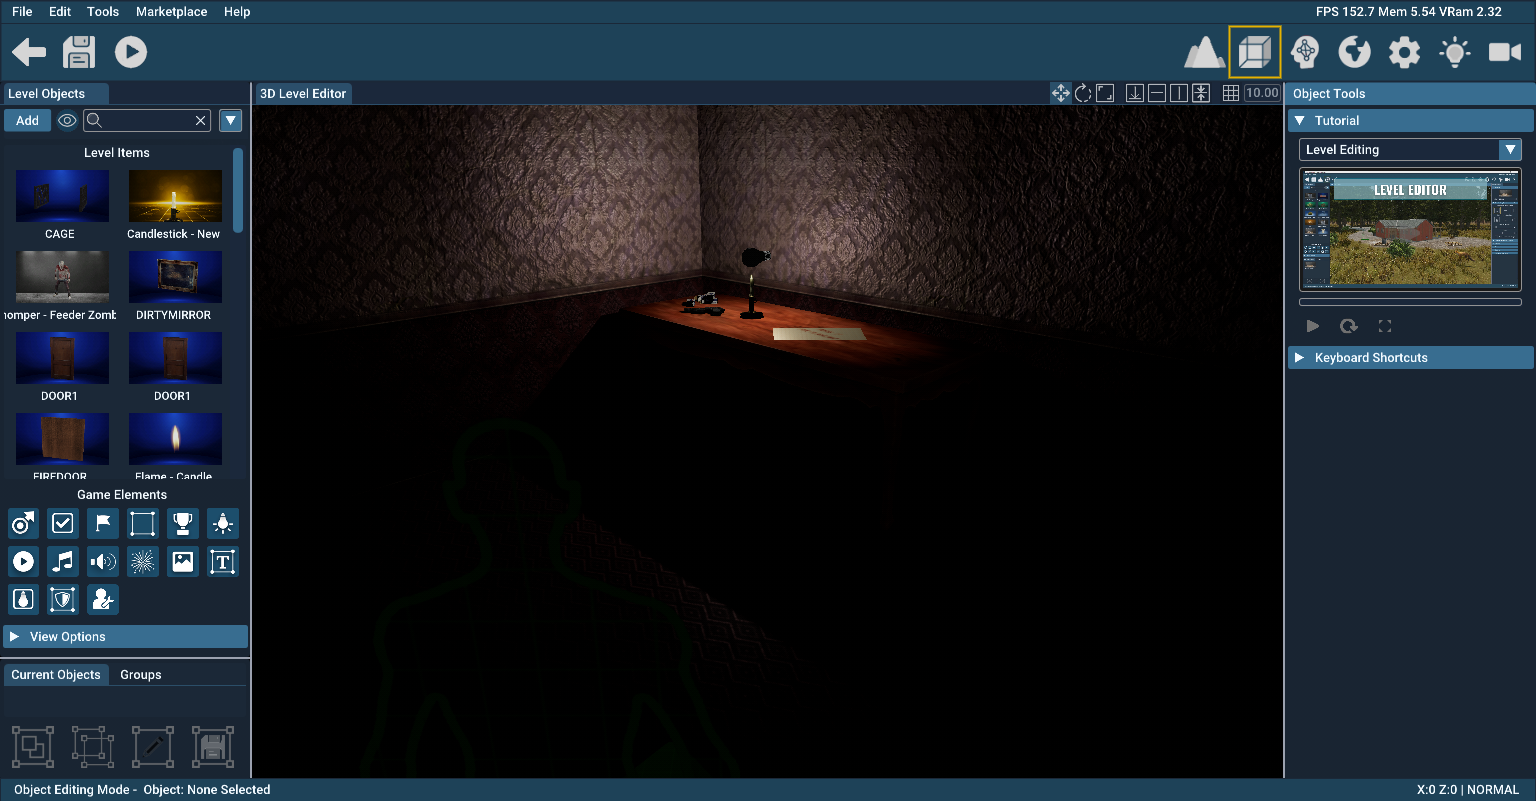
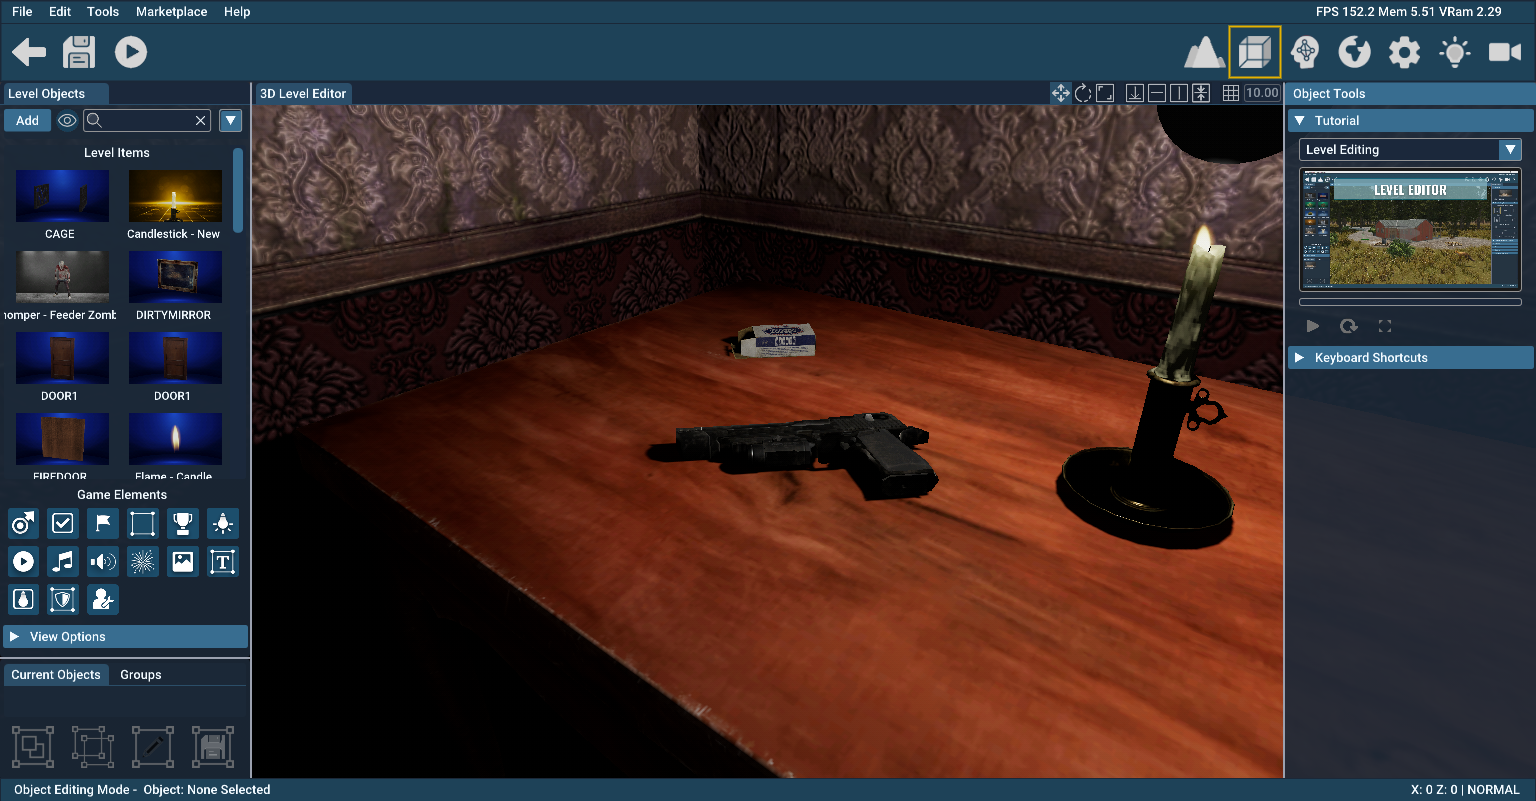
2.35: FIX deleted/collected object leaves its shadow behind (game side, no engine change)
Root cause: local point/spot shadow maps are CACHED, and the change detector
(GGMAX 2.07d, wiRenderer.cpp:5117) only finds a caster that MOVED, by comparing
its world matrix against last frame's. Neither of its two guards can fire for a
REMOVED object: a deleted one is gone from the objects array so there is no
'now' matrix left to compare, and a hidden one is skipped by the first guard.
'changed' stays false and the atlas keeps the removed object's depth forever.

The engine already exported the nudge - wi::renderer::InvalidateLocalShadows(),
wiRenderer.h:1200, consumed by 'changed = localShadowInvalidate || ...' - but it
had NO caller anywhere in the game. Nothing ever refreshed the cache on a
content change. Fix is therefore purely game side; the engine is untouched.

Wired at three sites via a one-line GGInvalidateLocalShadows() wrapper:
 - M-Entity_part4.cpp entity_deleteentityfrommap(), the single choke point all
   7 editor delete routes reach
 - DarkLUA_part0.cpp collect branch (collection teleports the pickup 999999
   units away rather than hiding it)
 - DarkLUA_part0.cpp drop-back branch, or dropped items would return shadowless

Verified on TESTPRO2, one binary, only the nudge differing: ammo present+shadow
-> caster removed, shadow STAYS (bug reproduced) -> nudge, shadow GONE. The
pistol's shadow survives all three shots, the control proving the nudge cleared
a stale shadow rather than blanking the atlas.

diff --git a/GameGuru Core/Guru-WickedMAX/AutomationHarness.cpp b/GameGuru Core/Guru-WickedMAX/AutomationHarness.cpp
@@ -4114,6 +4114,20 @@ static bool AutoHarness_CensusCommands(const char* cmd, const char* arg, char* r
 	}
 
 	// ─────────────────────────────────────────────────────────────────────────────────────────
+	// INVALIDATE_LOCALSHADOWS — GGMAX 2.35. Force the cached local shadow atlas to re-render.
+	// This is the EXECUTED-CHECK for the 2.35 fix: after removing a caster, if the stale shadow
+	// vanishes the instant this is issued, the cached atlas was provably what was holding it —
+	// which is the whole claim. Calls the same engine entry the fix calls from the delete and
+	// collect paths, so the experiment tests the shipped mechanism and not a lookalike.
+	if (_stricmp(cmd, "INVALIDATE_LOCALSHADOWS") == 0)
+	{
+		extern void GGInvalidateLocalShadows();
+		GGInvalidateLocalShadows();
+		_snprintf(result, resultSize, "OK: INVALIDATE_LOCALSHADOWS — cached local shadows re-render next frame");
+		result[resultSize - 1] = 0;
+		return true;
+	}
+
 	// MOVE_ENTITY <name-substr> <dx> <dy> <dz> — GGMAX 2.35. Translate matching objects.
 	//
 	// Exists to REPRODUCE pickup collection without playing the game. `SetEntityCollectedEx`

diff --git a/GameGuru Core/Dark Basic Public Shared/Dark Basic Pro SDK/DarkSDKMore/DarkLUA/DarkLUA_part0.cpp b/GameGuru Core/Dark Basic Public Shared/Dark Basic Pro SDK/DarkSDKMore/DarkLUA/DarkLUA_part0.cpp
@@ -1433,6 +1433,11 @@ luaMessage** ppLuaMessages = NULL;
 							int store = t.e; t.e = iEntityIndex;
 							entity_lua_collisionon();
 							t.e = store;
+							// GGMAX 2.35: dropping it back into the world is the same problem in
+							// reverse — the pickup returns but the cached atlas has no shadow for
+							// it. Nudge here too, or items would drop shadowless.
+							extern void GGInvalidateLocalShadows();
+							GGInvalidateLocalShadows();
 						}
 					}
 				}
@@ -1454,6 +1459,12 @@ luaMessage** ppLuaMessages = NULL;
 				t.entityelement[iEntityIndex].z -= 999999;
 				t.entityelement[iEntityIndex].eleprof.phyalways = 1;
 				PositionObject(t.entityelement[iEntityIndex].obj, t.entityelement[iEntityIndex].x, t.entityelement[iEntityIndex].y, t.entityelement[iEntityIndex].z);
+				// GGMAX 2.35: collecting TELEPORTS the pickup 999999 units away rather than
+				// hiding it, so its shadow must stop being cast. Refresh the cached local shadow
+				// atlas — user repro: collect the ammo in test-game, its shadow stays on the
+				// table. Same cache hole as the editor delete (M-Entity_part4.cpp).
+				extern void GGInvalidateLocalShadows();
+				GGInvalidateLocalShadows();
 			}
 		}
 	}

diff --git a/GameGuru Core/Guru-WickedMAX/wickedcalls_part2.cpp b/GameGuru Core/Guru-WickedMAX/wickedcalls_part2.cpp
@@ -2212,3 +2212,20 @@ void WickedCall_PutWaterRipple(float fX, float fY, float fZ, float fSize)
 		scene.waterRipples.back().params.opacity = 0.5f;
 	}
 }
+
+// GGMAX 2.35: force the CACHED local (point/spot) shadow atlas to re-render next frame.
+//
+// Local shadow maps are cached (Phase 2) and only re-rendered when something is detected to have
+// changed. That detector — GGMAX 2.07d, wiRenderer.cpp:5117 — finds a caster that MOVED, by
+// comparing each object's world matrix against last frame's. It cannot possibly see a caster that
+// was DELETED: a removed object is gone from the objects array, so there is no "now" matrix left
+// to differ from its "prev" one, `changed` stays false, and the cached atlas keeps the deleted
+// object's depth forever. That is the "delete the ammo in the editor and its shadow stays" bug,
+// and the same hole covers collecting a pickup in-game.
+// The engine already exports the nudge (wiRenderer.h:1200) — it simply had NO caller anywhere in
+// the game, which is why nothing ever refreshed the cache on a content change. This is the whole
+// fix; no engine change is involved.
+void GGInvalidateLocalShadows()
+{
+	wi::renderer::InvalidateLocalShadows();
+}

diff --git a/GameGuru Core/GameGuru/Source/M-Entity_part4.cpp b/GameGuru Core/GameGuru/Source/M-Entity_part4.cpp
@@ -1510,6 +1510,15 @@ void entity_addentitytomap ( void )
 bool bUpdateObjectList = false;
 void entity_deleteentityfrommap ( void )
 {
+	// GGMAX 2.35: a deleted entity must refresh the CACHED local shadow atlas.
+	// The cache's change detector only spots casters that MOVED (world matrix vs last frame's);
+	// a deleted object leaves the objects array entirely, so nothing remains to compare and the
+	// cache silently keeps its shadow — user repro: delete the ammo in the editor, its shadow
+	// stays on the table. Every editor delete route reaches this one function (7 call sites), so
+	// this is the single place that closes it.
+	extern void GGInvalidateLocalShadows();
+	GGInvalidateLocalShadows();
+
 	bUpdateObjectList = true;
 	//  Entity Type To Delete
 	t.entitymaintype=1;

diff --git a/GameGuru Core/WETEST.md b/GameGuru Core/WETEST.md
@@ -171,6 +171,7 @@ tasklist.exe 2>/dev/null | grep -qi "GameGuruMAX" && echo "RUNNING" || echo "NOT
 | `WHYNOTDRAWN` | `<name-substr>` | **GGMAX 2.30 — closes backlog #125 ("why did object X not draw?").** Walks every gate the main camera applies, in engine order, and names the FIRST that rejects: renderable / layerMask / frustum / apparent-size cull (delta 1.30) / occlusion query / presence in the prior frame's `visibleObjects` / draw-distance reject (`wiRenderer.cpp:8663`) / distance-fade dither skip (`:4170`). Also prints the object AABB, centre, radius, `fadeDistance`, camera distance, and whether the camera is inside the AABB (which force-marks it visible at `:4533`). Writes `Files/whynotdrawn.txt`. ★ Built for the invisible collectable pistol, where it killed TWO of my own proposed mechanisms (occlusion, then dither) within a minute each — that is the point of it: a verdict line stops a plausible story being told about a measurement. ⚠ `inVisibleSet` is the PRIOR frame (the harness runs ahead of `UpdateVisibility`); everything else is live |
 | `DUMP_BIGAABB` | `[inflationRatio]` (default 2.0) | **GGMAX 2.34 — how much of the level carries an inflated AABB?** `WHYNOTDRAWN` answers "why is THIS object wrong"; this answers "how much is wrong", which is what decides whether an engine-side fix is worth the risk. For every object it recomputes the CLEAN box (`mesh.aabb.transform(world)`, exactly as `RunObjectUpdateSystem` does) and reports those whose real AABB exceeds it by the gate. Prints counts, distinct meshes/armatures blamed, how many exceed the fp16 ceiling (65504), how many are TRANSPARENT and how many are **both** (the only combination that can mis-sort), plus scene bounds and a per-object table with bone count and filter mask. Writes `Files/dumpbigaabb.txt`. ★ **The gate is a RATIO, never a coordinate threshold** — a coordinate test would report "0 affected" the moment `masterpark` moved the park point, and that zero would read as a fix. The ratio also surfaces LEGITIMATE ~2x armature merges (hair, heads), which is how the transparent-sort risk got discriminated instead of assumed. Measured: 2/7249 RPG Template, 5/1167 Zombie Cellar, 17/8558 Island Showdown, 0/1030 Switch Escape — all truly-corrupt entries are 1-bone weapon/ammo pickups; characters are clean. Driver: `tools/sceneupdate/bigaabb.sh <demo>...` |
 | `MOVE_ENTITY` | `<name-substr> <dx> <dy> <dz>` | **GGMAX 2.35 — reproduce pickup collection without playing the level.** `SetEntityCollectedEx` (`DarkLUA_part0.cpp:1452`) does NOT hide a collected entity: it teleports it by -999999 on every axis and repositions the object. So `MOVE_ENTITY ammo -999999 -999999 -999999` is the collect path's exact effect on the scene, from the editor, in one command. Pair with `SET_ENTITY_VIS` (which hides instead of moving) to separate a MOVED caster from a HIDDEN one — GGMAX 2.07d's dynamic-caster shadow invalidation catches the first and skips the second at its `if (!object.IsRenderable()) continue;` guard. ⚠ **Always follow with an executed-check** (`DUMP_BIGAABB`): the first use of this compared two screenshots that were indistinguishable, and only the census could tell "the move did nothing" from "the move worked but the object is 4 px wide at this camera distance" (it worked — worst radius 86,926 -> 952,773). Driver: `tools/sceneupdate/pickupshadow.sh <demo> <name-substr>` |
+| `INVALIDATE_LOCALSHADOWS` | (none) | **GGMAX 2.35 — force the CACHED local (point/spot) shadow atlas to re-render.** Executed-check for the 2.35 fix: remove a caster, and if the stale shadow vanishes the instant this is issued, the cached atlas was provably what held it. Calls the same engine entry (`wi::renderer::InvalidateLocalShadows`, `wiRenderer.h:1200`) the fix calls from the delete/collect paths, so the experiment tests the shipped mechanism, not a lookalike. Verified on TESTPRO2: ammo hidden -> shadow stays; nudge -> shadow goes; the pistol's shadow survives all three shots as the control. Driver: `tools/sceneupdate/shadownudge.sh <project> <name-substr>` |
 | `SET_OCCLUSION` | `0` / `1` | GGMAX 2.30 — GPU occlusion culling on/off, live. ⚠ Writes BOTH `wi::renderer::SetOcclusionCullingEnabled` AND `t.visuals.bOcclusionCulling`, and must: the Graphics panel reconciles the engine to the visuals value whenever it is open (`M-GridEditB_part24.cpp:134`) and the visuals-apply path pushes it again (`M-GridEditB_part3.cpp:1815`), so an engine-only write would be silently reverted. The reply prints both so a divergence is obvious. ★ Occlusion culling is a per-level SAVED setting — an intermittency source in its own right |
 | `DUMP_RAGDOLL` | `[reset]` | **GGMAX 2.29 — the stage-namer for ragdoll death (issue D).** Walks the whole chain: `RAGDOLL_CREATE:` (calls / obj / frames / bip prefix / pelvis / spine / existed / produced / limbsTagged) → `RAGDOLL_UPDATE:` (calls / bones / framesMoved / animateFrom / stillMoving / writebackCalls) → `RAGDOLL_WB:` (entered / animRef / animSet / animComp / channel / **applied** / **splitTarget** / knob) → `RAGDOLL_REG:` (the game's own `t.Ragdolls[]` table) → `RAGDOLL_VERDICT:`. Each WB counter is one nesting level deeper than the last, so the first zero IS the answer. ★★ **Judge survival by `clobbered`/`survived`, NOT by the `HELD` on the RAGDOLL_BONE line** — the harness runs in `GuruLoopLogic`, the same phase as the Bullet step, so a dump can read back its own write and print HELD while the animation system clobbers the bone a moment later. That exact false pass happened on 2026-08-12; `clobbered=225 survived=0` is what convicted the looping clip. The clip-stop fix inverted it to `clobbered=0 survived=249`. ★ Built because the 2.28 fix (restoring the writeback CALL) did not work and code-reading had stalled twice — four stages were unverified and the T-pose looked identical whichever one was dead. ⚠ **`splitTarget` must be 0**: the single merged `SetPreFrame` is only valid while a bone's pos and rot channels share a target entity; non-zero invalidates the 2.29 writeback. `reset` zeroes the counters after printing. ⚠ Ragdolls only update in TEST GAME — `ragdollManager::Update()` is driven from the Bullet step, which the editor does not run |
 | `RAGDOLL_TEST` | `[entityIndex]` | GGMAX 2.29 — ragdollify a character without a player pulling a trigger (the harness provably cannot drive the player). Reproduces exactly what `G-Entity_part1.cpp:722-732` does when the death path picks ragdoll. No argument = first live entity whose profile has `ischaracter==1` and a `Bip01_Pelvis` limb. Follow with `DUMP_RAGDOLL` and a `SCREENSHOT`. Driver: `tools/sceneupdate/ragdolltest.sh` |

diff --git a/GameGuru Core/NIGHT_INVESTIGATIONS_2026-08-12.md b/GameGuru Core/NIGHT_INVESTIGATIONS_2026-08-12.md
@@ -1078,3 +1078,76 @@ ownership test at `wiScene.cpp:5233` — merge the armature box only into an ins
 owns that armature's transform. It must fail **toward merging**, because the dangerous direction is
 skipping a merge for a legitimately animated character that has moved beyond its mesh bind box
 (root motion), which *would* wrongly cull. `masterpark` remains the bounded mitigation.
+
+---
+
+# §2.35 — Deleted/collected object leaves its shadow behind (GAME-SIDE FIX)
+
+User repro: collect the ammo in test-game, or simply **delete it in the level editor**, and its
+shadow stays on the table. The editor half is the important one — it turns a "walk over and press
+E" bug into a one-click one, and it rules out anything specific to the collect path.
+
+## Root cause: a cached shadow atlas whose change-detector cannot see a removal
+
+Local (point/spot) shadow maps are **cached** — re-rendered only when something is detected to have
+changed. The detector is GGMAX 2.07d (`wiRenderer.cpp:5117`), and it finds a caster that **MOVED**,
+by comparing each object's world matrix against last frame's:
+
+```cpp
+if (!object.IsRenderable() || !object.IsCastingShadow()) continue;
+if (memcmp(&mNow, &mPrev, sizeof(XMFLOAT4X4)) == 0) continue; // did not move
+```
+
+Neither line can fire for an object that is **removed**:
+* **Deleted** — it is gone from the objects array, so there is no "now" matrix left to differ from
+  its "prev" one. The loop never even reaches it.
+* **Hidden** — it is skipped outright by the very first guard.
+
+So `changed` stays false, the atlas is not re-rendered, and it keeps the removed object's depth
+**indefinitely**. 2.07d was written for "a box moved under the spot"; removal is the case it does
+not cover.
+
+★ The engine already exported the nudge — `wi::renderer::InvalidateLocalShadows()`
+(`wiRenderer.h:1200`), and `changed = localShadowInvalidate || ...` consumes it. It simply had
+**no caller anywhere in the game**. Nothing ever refreshed the cache on a content change. That is
+the whole defect, and the fix needs no engine change at all.
+
+## The fix (game side only, three call sites)
+
+| site | why |
+|---|---|
+| `M-Entity_part4.cpp` `entity_deleteentityfrommap()` | the single choke point for editor deletes — all 7 delete routes reach it |
+| `DarkLUA_part0.cpp` collect branch | collecting teleports the pickup 999999 units away rather than hiding it |
+| `DarkLUA_part0.cpp` drop-back branch | the same problem in reverse: an item dropped back would return **shadowless** |
+
+Each calls `GGInvalidateLocalShadows()`, a one-line wrapper added to `wickedcalls_part2.cpp`.
+
+## Verified — the causal chain, not just the symptom
+
+Three shots on TESTPRO2, one binary, one session, only the nudge differing:
+
+| shot | ammo | shadow |
+|---|---|---|
+| `01_before` | present | present |
+| `02_removed` | **gone** | **still there** ← the bug, reproduced |
+| `03_nudged` | gone | **gone** |
+
+The **pistol's** shadow is present in all three — the control that proves the nudge cleared a
+*stale* shadow rather than merely blanking the atlas. Shot 3 calls the same engine entry the
+shipped fix calls, so the experiment tests the shipped mechanism and not a lookalike.
+
+⚠ **Two instrument failures on the way here, both worth remembering.** `MOVE_ENTITY` writes the
+Wicked transform directly, and GameGuru re-asserts entity positions in the editor, so the ammo was
+still on the table afterwards — the caster was never actually removed. And the first Trapped run
+compared two screenshots taken from across the room where the pickup is ~4 px wide, which is
+indistinguishable from "nothing happened". **A visual A/B needs the subject legible and an
+executed-check that the arm was actually applied**; the census (`DUMP_BIGAABB`) supplied the
+latter, the user's re-framed TESTPRO2 camera the former.
+
+## Still open
+
+`SetEntityCollectedEx` does not hide a collected entity, it teleports it 999999 units away. It is
+therefore *still a live, renderable, shadow-casting scene member* sitting a million units out, and
+(being a pickup) it carries the corrupt one-bone armature AABB from §2.34, so its bounds now span
+from −999999 to +100000 and contain the whole level. Harmless today given §2.34's findings, but
+"removal by teleport" is a smell worth revisiting if pickups ever misbehave again.
